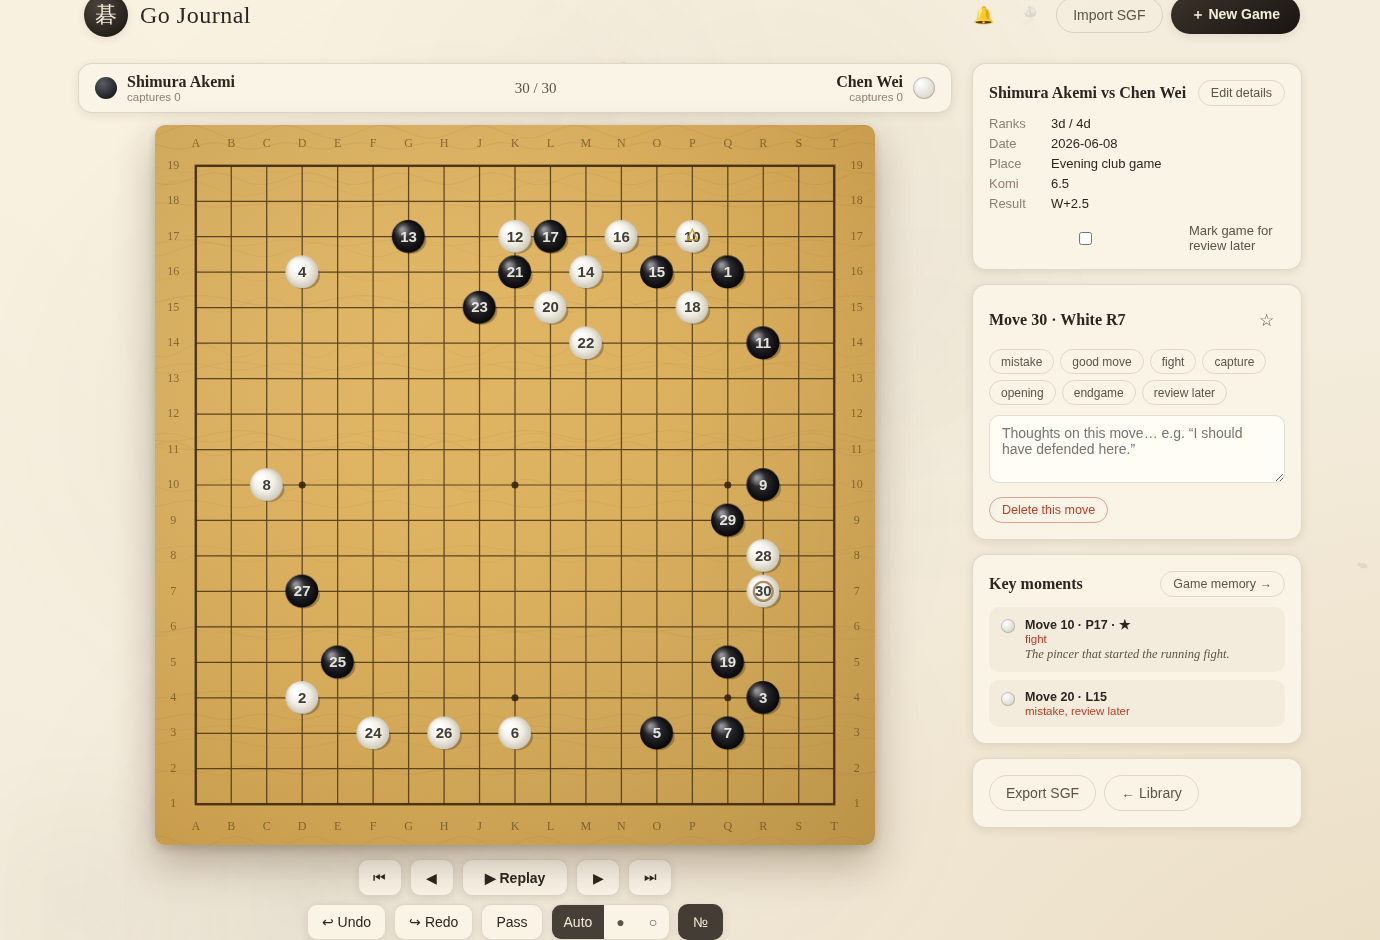
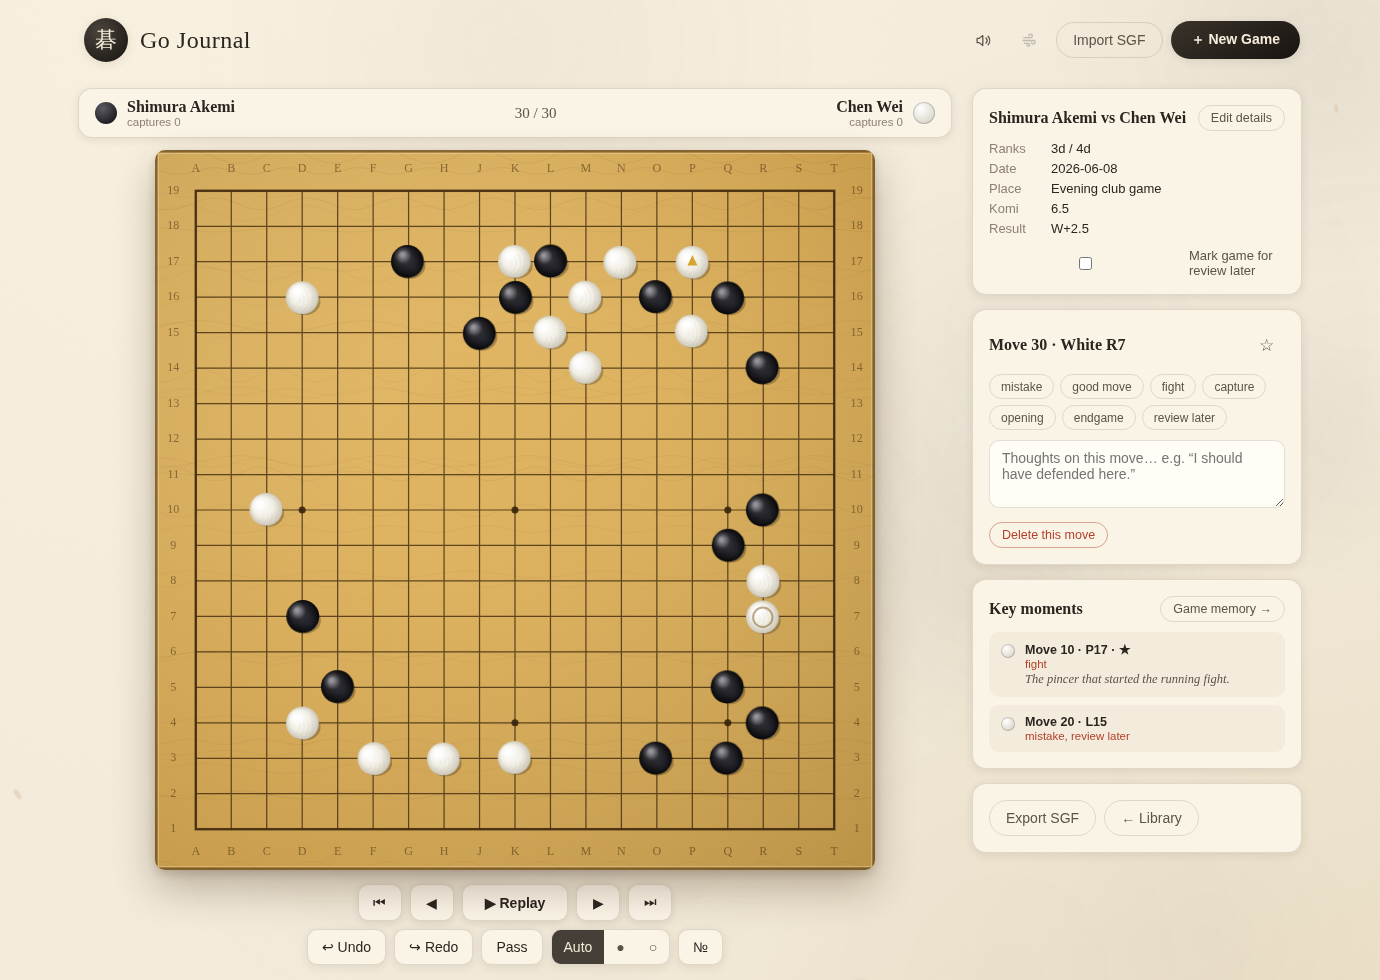
Guard navigation keys during replay, tick on numbers toggle, refresh docs
https://claude.ai/code/session_01W4gYCfa1svrLj1FPAx2UYe

diff --git a/js/main.js b/js/main.js
@@ -922,6 +922,7 @@ function bindEvents() {
     state.settings.showNumbers = !state.settings.showNumbers;
     renderer.showNumbers = state.settings.showNumbers;
     $('btn-numbers').classList.toggle('on', state.settings.showNumbers);
+    sound.tick();
     store.saveSettings(state.settings);
     renderer.draw();
   });
@@ -1005,6 +1006,8 @@ function bindEvents() {
       else startReplay();
       return;
     }
+    // while the film is rolling, only space/escape make sense
+    if (state.replay.playing) return;
     if ((e.ctrlKey || e.metaKey) && e.key.toLowerCase() === 'z') { e.preventDefault(); doUndo(); return; }
     if ((e.ctrlKey || e.metaKey) && e.key.toLowerCase() === 'y') { e.preventDefault(); doRedo(); return; }
     switch (e.key) {

diff --git a/README.md b/README.md
@@ -37,16 +37,20 @@ browser (localStorage) — no account, no network needed.
 - Continue an unfinished game any time — everything autosaves
 
 **Reviewing**
-- Jump to any move via the animated timeline, arrow keys, or slider chips
-- Cinematic replay mode with adjustable speed, captions and a vignette
+- Jump to any move via the scrubber slider, the animated timeline chips,
+  or the arrow keys
+- Cinematic replay mode: intro/outro title cards, a low gong, a slow
+  breathing zoom, captions, adjustable speed — and it lingers on the
+  moves you marked as important
 - Per-move notes, bookmarks (★) and tags
   (`mistake`, `good move`, `fight`, `capture`, `opening`, `endgame`, `review later`)
 - Key-moments list for quick jumps between marked moves
 - "Game memory" summary page: result, final position, captures,
   after-game thoughts and the timeline of important moments
-- "Review later" shelf on the library home screen
-- Move numbers on stones (toggle), glowing last-move marker,
-  capture counters
+- "Review later" shelf and All / In progress / Finished / Review later
+  filters on the library home screen
+- Move numbers on stones (toggle), breathing last-move marker,
+  capture counters that bump when stones are taken
 
 **Import / export**
 - Standard SGF export and import (main line). Notes use `C[]`,
@@ -54,16 +58,21 @@ browser (localStorage) — no account, no network needed.
   custom `TG[]` property that other SGF tools safely ignore.
 
 **Atmosphere**
-- Warm wood board with procedural grain, soft-drop stone animation with
-  bounce and shadow, ink-dissolve capture animation, drifting mist and
-  falling-leaf background, hover/tap stone preview, synthesized stone
-  click and capture sounds plus an optional ambient pad (all WebAudio,
-  no audio files)
+- Warm speckled wood board with a bevelled rim, soft-drop stone
+  animation with bounce, shadow and an impact ripple, smoke-and-ink
+  capture dissolve, stones with clamshell texture and natural per-point
+  variation, drifting mist and falling-leaf background, paper-grain
+  page texture, hover/tap stone preview
+- Synthesized sounds — stone click, capture swish, undo lift, save
+  chime, replay gong, soft UI ticks — plus an optional ambient pad
+  (all WebAudio, no audio files)
 
 **Mobile**
 - Fully responsive; on touch screens the first tap previews the stone on
   the nearest intersection and a second tap confirms, so placement is
-  always accurate.
+  always accurate. Move notes and tags live in a slide-up bottom sheet
+  behind a floating annotate button that shows a dot when the current
+  move already has thoughts on it.
 
 ## Keyboard shortcuts (editor)
 
@@ -89,6 +98,7 @@ js/storage.js      localStorage persistence
 js/board.js        canvas renderer: wood, stones, animations, input
 js/ambient.js      background mist / leaf particle canvas
 js/sound.js        WebAudio synthesized SFX and ambient pad
+js/icons.js        inline SVG icon set
 js/main.js         application controller wiring everything together
 test/              node-runnable logic tests
 ```
